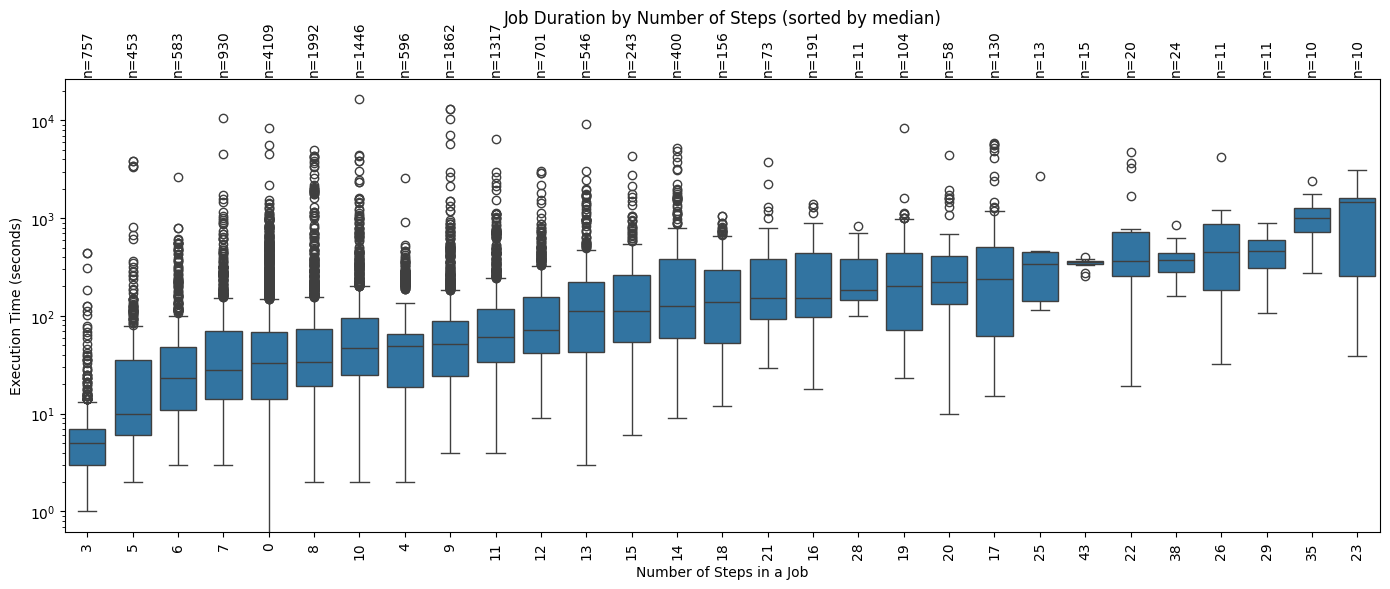
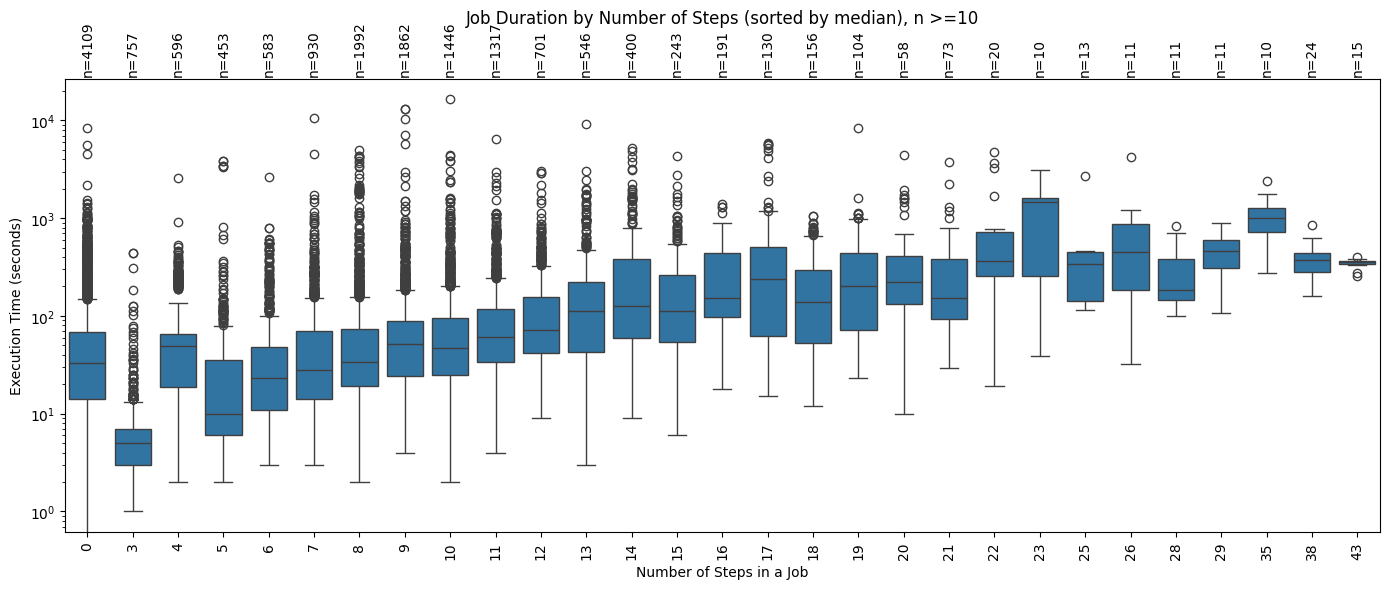
Polish readme.md file

diff --git a/readme.md b/readme.md
@@ -1,7 +1,7 @@
 # JavaScript CI Activity Analysis
 
 This project analyzes the GitHub Actions (CI) activity of JavaScript repositories with more than 10 stars.  
-All required data files are included no live API calls are needed to reproduce the analysis.
+All required data files are included, no live API calls are needed to reproduce the analysis.
 
 ---
 
@@ -28,7 +28,7 @@ All required data files are included no live API calls are needed to reproduce t
 
 ### 1. Filter JavaScript Repositories
 
-- Download the [SEART GitHub searcher datadump (August 2024)](https://www.dropbox.com/scl/fo/lqvp1mhsg0ezp2sgs0xdk/h/20240801?dl=0&subfolder_nav_tracking=1).
+- Download the [SEART GitHub searcher datadump (August 2024)](https://www.dropbox.com/scl/fo/lqvp1mhsg0ezp2sgs0xdk/h?rlkey=j9joij3iqpy1zl5h061vdnlj6).
 - Execute:
 
   ```sql
@@ -40,7 +40,7 @@ All required data files are included no live API calls are needed to reproduce t
   ```
 
   - `94453096` is the language ID for **JavaScript**.
-  - Save the output to `/files/git_repo_filtered_js_commit_date.csv`.
+  - Saved the output to `/files/git_repo_filtered_js_commit_date.csv`.
     **Total entries:** 24,612.
 
 ### 2. Identify Repositories with Workflows
@@ -61,11 +61,10 @@ All required data files are included no live API calls are needed to reproduce t
 
 - Fetch latest workflow run metadata (workflow IDs, runner IDs, etc.) for all 12,210 repositories.
 
-  - **Repositories with executed workflows:** 11,067.
+  - Repositories with executed workflows: 11,067.
   - Of these, **8,311** workflows were created by manual pull requests (not bots).
   - Merged dataset with matrix counts retrieved from downloaded yml files stored at
     `/files/merged_workflow_data_yml_files.csv`.
-    → **Analysis is based on these 8,311 workflows.**
 
 ### 5. Fetch Job-Level Details
 
@@ -120,25 +119,14 @@ All required data files are included no live API calls are needed to reproduce t
 ## Notes
 
 - **No live API calls required.**
-  The notebook loads all data from files instead of hitting the GitHub API.
+  The notebook loads all data from files for further analysis instead of hitting the GitHub API again and again.
 - Run the Jupyter notebook to reproduce all analyses and visualizations.
 
 ## Visual Analysis
 
 Below are the key visual insights derived from the cleaned datasets (`final_workflow_data.csv` and `workflow_job_data.csv`).
 
-### 1. Average Workflow Execution Time vs. Number of Jobs
-
-![Average Workflow Execution Time vs Number of Jobs](figures/jobs_vs_workflowDuration.png)
-
-- **Observation:**
-  - Workflows with **1 job** dominate the dataset (≈4,487), showing a median execution time of a few hundred seconds.
-  - As the number of jobs increases, the **average execution time generally grows**, with spikes at **5 jobs** and **18 jobs**, indicating that some workflows with more jobs take significantly longer to complete.
-  - Extremely high execution times for certain job counts suggest outliers where complex jobs or resource-heavy tasks increase duration.
-
----
-
-### 2. Mean Job Duration by Operating System
+### 1. Mean Job Duration by Operating System
 
 ![Mean Job Duration by Operating System](figures/os_vs_jobDuration.png)
 
@@ -149,14 +137,26 @@ Below are the key visual insights derived from the cleaned datasets (`final_work
 
 ---
 
+### 2. Average Workflow Execution Time vs. Number of Jobs
+
+![Average Workflow Execution Time vs Number of Jobs](figures/jobs_vs_workflowDuration.png)
+
+- **Observation:**
+  - Workflows with **1 job** dominate the dataset (≈4,487), showing a median execution time of a few hundred seconds.
+  - As the number of jobs increases, the **average execution time generally grows**, with spikes at **5 jobs** and **18 jobs**, indicating that some workflows with more jobs take significantly longer to complete.
+  - Extremely high execution times for certain job counts suggest outliers where complex jobs or resource-heavy tasks increase duration.
+
+---
+
 ### 3. Job Duration by Number of Steps
 
 ![Job Duration by Number of Steps](figures/stpes_vs_jobDuration.png)
 
 - **Observation:**
-  - **Execution time scales with the number of steps** in a job—median duration rises steadily as step count increases.
-  - Jobs with fewer than ~10 steps typically finish in under a few minutes, while those with **30+ steps show a wide range**, with many taking **hours**.
-  - The **log-scaled y-axis** highlights significant variance and the presence of extreme outliers, where some jobs run far longer than the median.
+  - Jobs with fewer steps (0–5) dominate the dataset (e.g., ≈4,109 jobs with 0 steps), showing relatively low median execution times, mostly under a few hundred seconds.
+  - As the number of steps increases, the median execution time generally grows, with clear upward shifts around 10–20 steps.
+  - Spikes at higher step counts (e.g., 23, 25, 29 steps) indicate that some jobs with more steps take significantly longer to complete.
+  - Extremely high execution times across many step counts suggest the presence of outliers, where certain steps involve complex or resource-heavy tasks that disproportionately increase duration.
 
 ---
 
